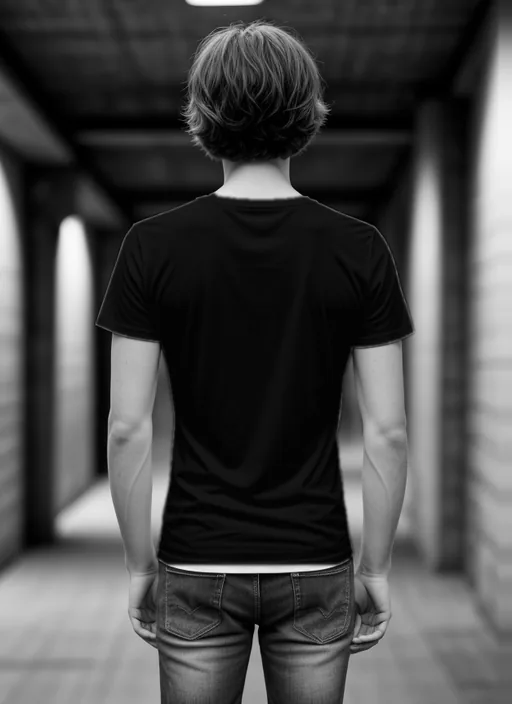
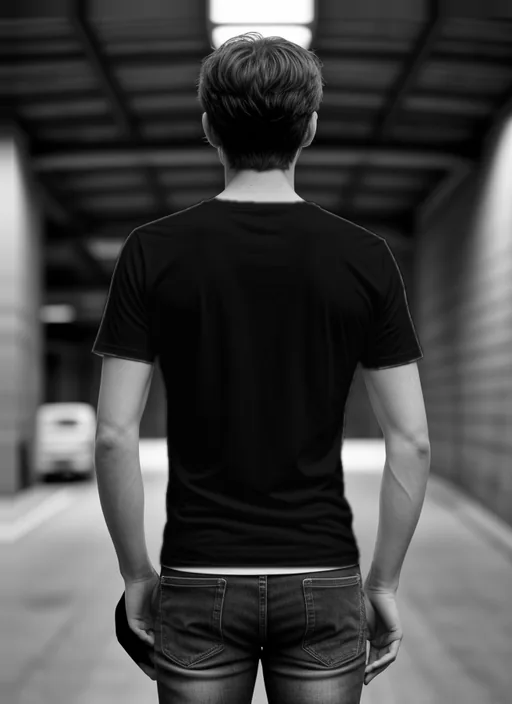
Model photos: 4 more men, faulty hands fixed — 11 models, 22 photos
- New looks: a tied-back long-haired heavier man (metro station), a
  receding hairline (parking garage), spiky blond hair (brutalist wall),
  long straight hair (office lobby).
- The second pose skeleton had a faulty right hand, which showed in every
  photo made from it: removed; those photos were regenerated with the good
  pose. One photo (backlit loft) failed the tee-tone check and is left out.

Claude-Session: https://claude.ai/code/session_0137kCTX5DYSJbTcNKd7SgjX

diff --git a/scripts/models/jobs.py b/scripts/models/jobs.py
@@ -22,7 +22,7 @@ only = int(sys.argv[1]) if len(sys.argv) > 1 else None
 jobs = []
 for i, man in enumerate(MEN):
     moment = MOMENTS[i % len(MOMENTS)]
-    jobs.append({"id": f"m{i:02d}", "color": "white", "seed": 9100 + i * 31, "steps": 8, "pose": i % 2,
+    jobs.append({"id": f"m{i:02d}", "color": "white", "seed": 9100 + i * 31, "steps": 8, "pose": 0,
       # The model reads only ~75 tokens: the tee first, the rest short.
       "prompt": f"plain white short-sleeved t-shirt, smooth taut fabric, back view, {man} {moment}, dark jeans, relaxed arms, straight-on from directly behind, symmetrical, shoulders level, head straight, blurred quiet street, soft light, photo"})
 # More models: same pose, a different man, build and quiet urban scene each.
@@ -31,10 +31,15 @@ MORE = [
   ("a tall slim man with short wavy hair", "blurred underpass, soft light"),
   ("a muscular man with short black hair and a short beard", "blurred plain stone steps"),
   ("a lean young man with short curly red hair", "blurred empty loft with a large window"),
+  # A second set: other hair, fuller builds, different heights.
+  ("a chubby heavyset man with shoulder-length hair tied back", "blurred grey metro station"),
+  ("a middle-aged man with a receding hairline and a round belly", "blurred quiet parking garage"),
+  ("a young man with short spiky dyed blond hair, slim", "blurred brutalist concrete wall"),
+  ("a very tall broad man with long straight dark hair to his shoulders", "blurred glass office lobby"),
 ]
 for k, (man, scene) in enumerate(MORE):
     i = len(MEN) + k
-    jobs.append({"id": f"m{i:02d}", "color": "white", "seed": 9100 + i * 31, "steps": 8, "pose": i % 2,
+    jobs.append({"id": f"m{i:02d}", "color": "white", "seed": 9100 + i * 31, "steps": 8, "pose": 0,
       "prompt": f"plain white short-sleeved t-shirt, smooth taut fabric, back view, {man} standing still, dark jeans, relaxed arms, straight-on from directly behind, symmetrical, shoulders level, head straight, {scene}, soft light, photo"})
 if only: jobs = [j for j in jobs if j["id"] in sys.argv[2:]] if len(sys.argv) > 2 else jobs[:only]
 json.dump(jobs, open("jobs.json", "w"), indent=1); print(len(jobs))
